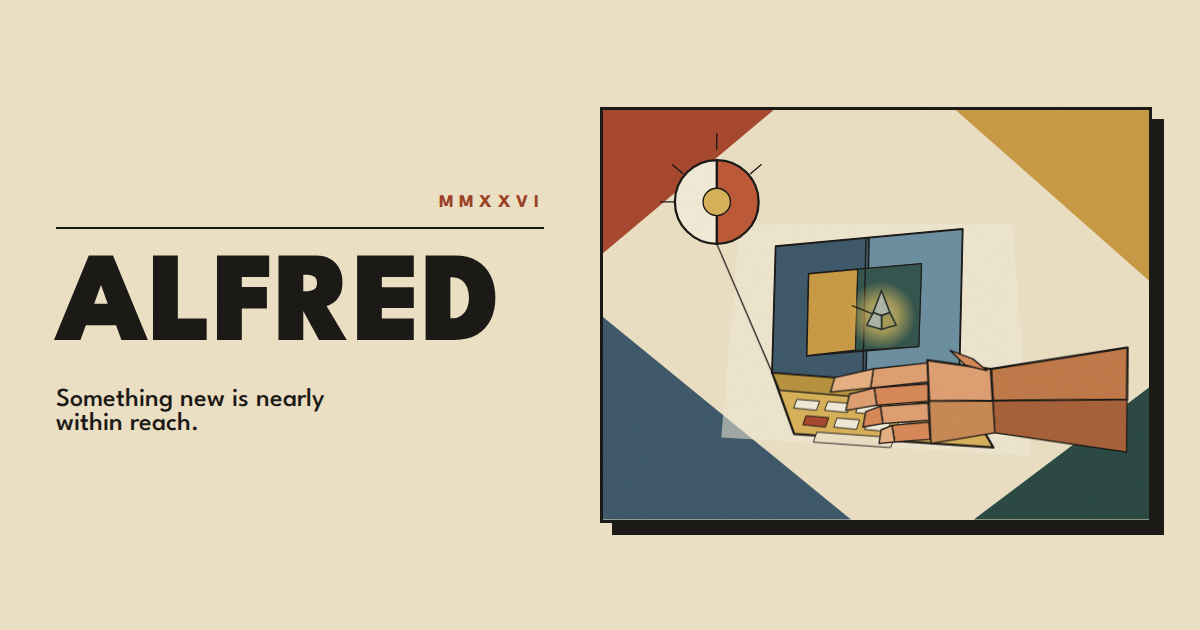
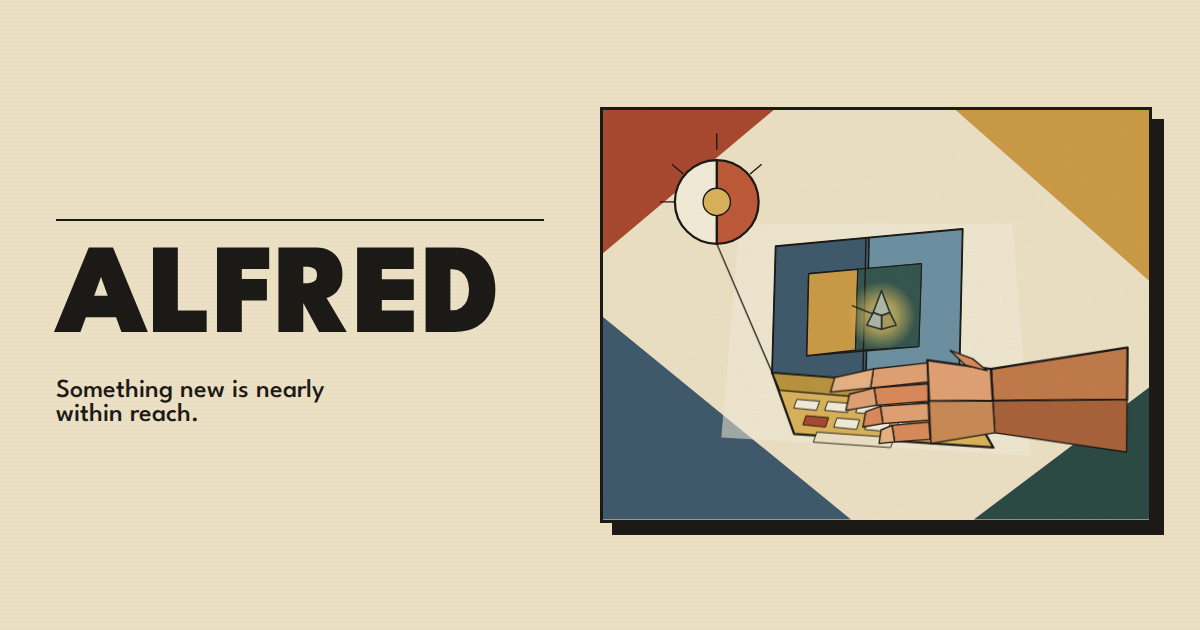
Remove MMXXVI corner mark; keep top rule

Changed region(s): [[0.0308, 0.3921, 0.4317, 0.5429], [0.0308, 0.6032, 0.2775, 0.6937], [0.0617, 0.3016, 0.4625, 0.3619]]

diff --git a/style.css b/style.css
@@ -52,19 +52,11 @@ body {
 
 /* ---- Meta row --------------------------------------------------------- */
 
+/* top rule above the wordmark (the corner mark was removed) */
 .meta {
-  display: flex;
-  justify-content: flex-end;
-  align-items: center;
-  font-size: clamp(0.66rem, 1.4vw, 0.82rem);
-  font-weight: 700;
-  letter-spacing: 0.32em;
-  text-transform: uppercase;
   padding-bottom: clamp(0.6rem, 1.6vh, 1rem);
   border-bottom: 2px solid var(--ink);
 }
-
-.meta__year { color: var(--terracotta); }
 
 /* ---- Wordmark --------------------------------------------------------- */
 

diff --git a/index.html b/index.html
@@ -21,9 +21,7 @@
 <link rel="stylesheet" href="style.css" />
 
 <main class="poster">
-  <header class="meta">
-    <span class="meta__year">MMXXVI</span>
-  </header>
+  <header class="meta" aria-hidden="true"></header>
 
   <h1 class="wordmark">Alfred</h1>
 